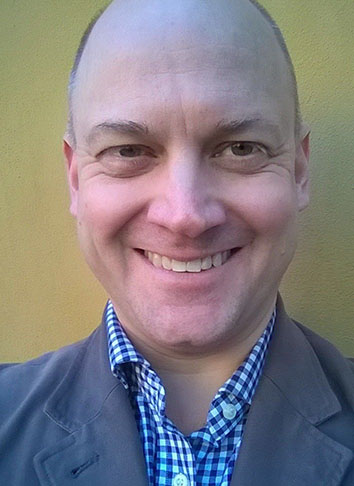
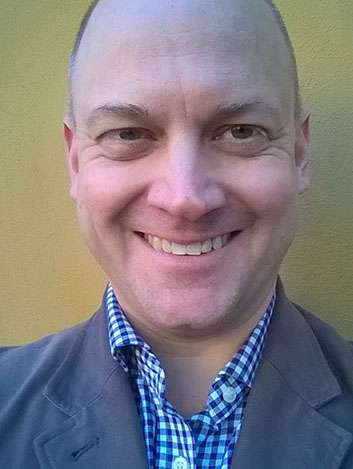
revision

diff --git a/content/about/header/index.md b/content/about/header/index.md
@@ -2,13 +2,15 @@
 ## Configure header of page
 text_align_right: false
 show_title_as_headline: false
-headline: About Russell Lewis
+headline: 
 image:
   - img/rlewis3.jpg
 ---
 
 <!-- this is a subheadline -->
 
-![](RLEWIS.jpg)
+**About Russell Lewis...** <br> <br>
 
-Russell Lewis is a clinical pharmacist and Associate Professor of Infectious Diseases (MED/17) in the Department of Medical and Surgical Sciences at the University of Bologna. He earned his Doctor of Pharmacy (Pharm.D.) degree from the University of Kansas followed by post-graduate clinical residency training at Barnes-Jewish Hospital in St. Louis. He then completed an infectious diseases research fellowship at the University of Iowa with a focus on antifungal pharmacology. <br> <br> He has over 20 years experience in laboratory and clinical research of antimicrobial pharmacokinetics and pharmacodynamics in immunocompromised hosts. His current research focuses on the development of prognostic risk models and decision support tools for the diagnosis and treatment of fungal infections and multidrug resistant bacteria. He also serves as a Senior PK/PD Editor for the *Journal of Antimicrobial Chemotherapy*- the official journal of the British Society for Antimicrobial Chemotherapy.<br> <br> Outside of work hours, his free time is spent with his wife Marta, son Marco, dog Luli, ...and occasionally a bicycle climbing and descending the [colli bolognesi](https://collibologna.it).
+![](/img/RLEWIS.jpg)
+
+Russell Lewis is a clinical pharmacist and Associate Professor of Infectious Diseases (MED/17) in the Department of Medical and Surgical Sciences at the University of Bologna. He earned his Doctor of Pharmacy (Pharm.D.) degree from the University of Kansas, followed by post-graduate clinical residency training at Barnes-Jewish Hospital in St. Louis, Missouri. He then completed an infectious diseases research fellowship at the University of Iowa in Iowa City with a focus on antifungal pharmacology. <br> <br> Russell has over 20 years experience in laboratory and clinical research of antimicrobial pharmacokinetics and pharmacodynamics in immunocompromised hosts. His current research focuses on the development of prognostic risk models and decision support tools for the diagnosis and treatment of fungal infections and multidrug resistant bacteria. He also serves as a Senior PK/PD Editor for the *Journal of Antimicrobial Chemotherapy*- the official journal of the British Society for Antimicrobial Chemotherapy.<br> <br> Outside of work hours, his free time is spent with his wife Marta, son Marco, dog Luli, ...and riding an old racing bicycle up and down the [colli bolognesi](https://collibologna.it).

diff --git a/content/blog/_index.md b/content/blog/_index.md
@@ -1,7 +1,7 @@
 ---
-author: The R Markdown Team @RStudio
+author: Russ Lewis
 cascade:
-  author: The R Markdown Team @RStudio
+  author: Russ Lewis
   show_author_byline: true
   show_comments: true
   show_post_date: true
@@ -17,16 +17,14 @@ show_button_links: false
 show_post_date: true
 show_post_thumbnail: true
 sidebar:
-  author: The R Markdown Team @RStudio
-  description: "This is a fully featured blog that supports categories,\ntags, series,
-    and pagination. Even this sidebar offers \na ton of customizations.\n\nCheck out
-    the _index.md file in the /blog folder \nto edit this content. \n"
+  author: Russ Lewis
+  description: "This is a blog that highlights recent publications and guidelines"
   show_sidebar_adunit: true
   text_link_label: Subscribe via RSS
   text_link_url: /index.xml
   title: A Sidebar for Your Thoughts
 thumbnail_left: true
-title: A Blog That Works
+title: Recent publications
 ---
 
 ** No content below YAML for the blog _index. This file provides front matter for the listing page layout and sidebar content. It is also a branch bundle, and all settings under `cascade` provide front matter for all pages inside blog/. You may still override any of these by changing them in a page's front matter.**

diff --git a/content/project/giraffes/index.md b/content/project/giraffes/index.md
@@ -6,12 +6,12 @@ categories:
 - Biomarkers
 date: "2022-04-07"
 draft: false
-excerpt: In this project, we will develop and validate Time-to-positivity (Tpos) generated automated bloodculture detection systems in widely used in clinical microbiology laboratories as a pharmacodynamic biomarker for monitoring bactericidal activity of carbapenem-resistant Enterbacterales (CRE) in critically-ill patients.
+excerpt: In this project, we will develop and validate Time-to-positivity (Tpos) measured from automated bloodculture detection systems used in clinical microbiology laboratories as a pharmacodynamic biomarker for monitoring bactericidal activity of carbapenem-resistant Enterbacterales (CRE) in critically-ill patients.
 layout: single
-subtitle: Adapting bloodculture systems to monitor antimicrobial efficacy
+subtitle: Adapting bloodculture systems to monitor the bactericidal activity of antibiotics used to treat carbapenem-resistant Enterobacterales
 tags:
 - hugo-site
-title: Developing time to blood culture positivity (Tpos) as a pharmacodynamci biomarker
+title: Developing time to blood culture positivity (Tpos) as a pharmacodynamic biomarker
 ---
 
 ![](featured.jpg)

diff --git a/content/_index.md b/content/_index.md
@@ -2,14 +2,14 @@
 action_label: Read More &rarr;
 action_link: /about
 action_type: text
-description: 'This site serves as a repository for teaching materials, lecture slides, and status ofblod current research projects. More information is available via my 
+description: 'This site serves as a repository for teaching materials, lecture slides, and links to current research projects. More information is available via my 
 [University of Bologna webpage](https://www.unibo.it/sitoweb/russeledward.lewis), or from my [*curriculum vitae*](https://russlewisbo.github.io/markdown-cv/). <br> <br>Please follow the following link for my [conflict of interest disclosure](http://andrewleach.ca/conflict-of-interest-disclosure/).<br><br>Cover photo credit: Marta Stanzani'
 image_left: true
 images:
-- img/rlewis3.jpg
+- img/RLEWIS.jpg
 show_action_link: true
 show_social_links: true
-subtitle: Clinical Pharmacologist in Infectious Diseases
+subtitle: Clinical Pharmacologist and Associate Professor of Medicine- Infectious Diseases
 text_align_left: right
 title: Russell E. Lewis
 type: home

diff --git a/content/courses/_index.md b/content/courses/_index.md
@@ -9,7 +9,7 @@ cascade:
   sidebar:
     show_sidebar_adunit: false
     text_link_label: View recent talks
-    text_link_url: /talk/
+    text_link_url: /courses/
 description: |
   This portal is for linking to course materials from my lectures at the University of Bologna
 layout: list
@@ -25,7 +25,7 @@ sidebar:
     out the _index.md file in the /talk folder \nto edit this content. \n"
   show_sidebar_adunit: false
   text_link_label: Subscribe via RSS
-  text_link_url: /talk/index.xml
+  text_link_url: /courses/index.xml
   title: Courses 
 title: Courses 
 ---

diff --git a/content/courses/campfire/index.md b/content/courses/campfire/index.md
@@ -12,7 +12,7 @@ featured: true
 layout: single
 
 location: Bologna Italy and Africa (Virtual)
-show_post_time: false
+show_post_time: true
 subtitle: 
 title: 97039 - Global Health, Antimicrobial Drugs and Vaccines
 ---

diff --git a/content/about/main/index.md b/content/about/main/index.md
@@ -9,3 +9,4 @@ show_outro: false
 outro: |
   <i class="fas fa-glass-cheers pr2"></i>Sincere thanks to [Maëlle Salmon](https://masalmon.eu/) for her help naming this Hugo theme!
 ---
+
